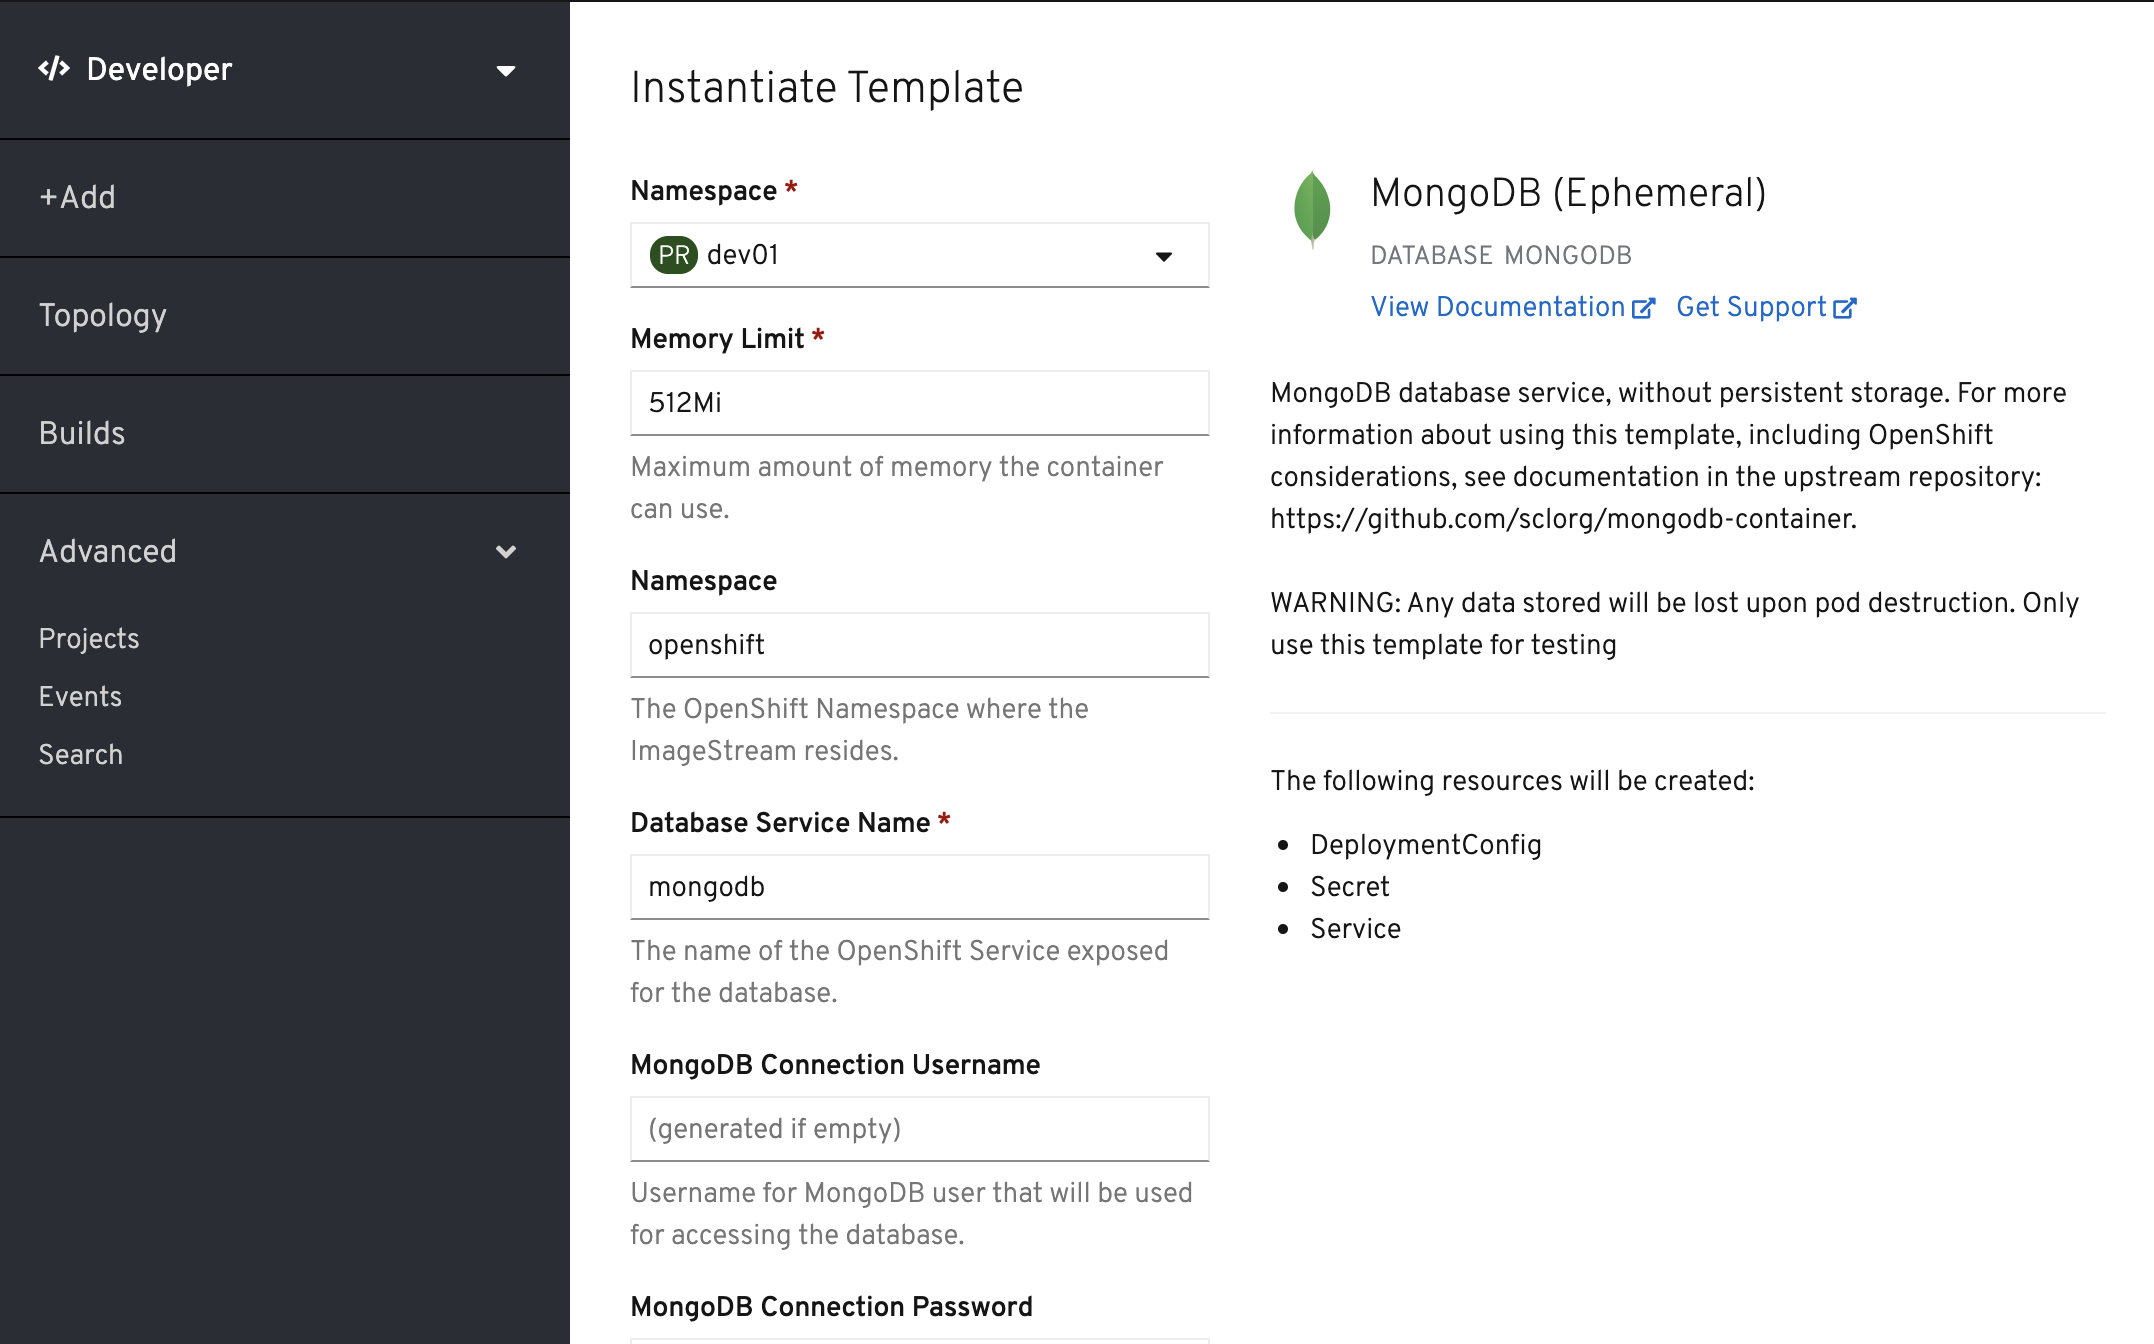
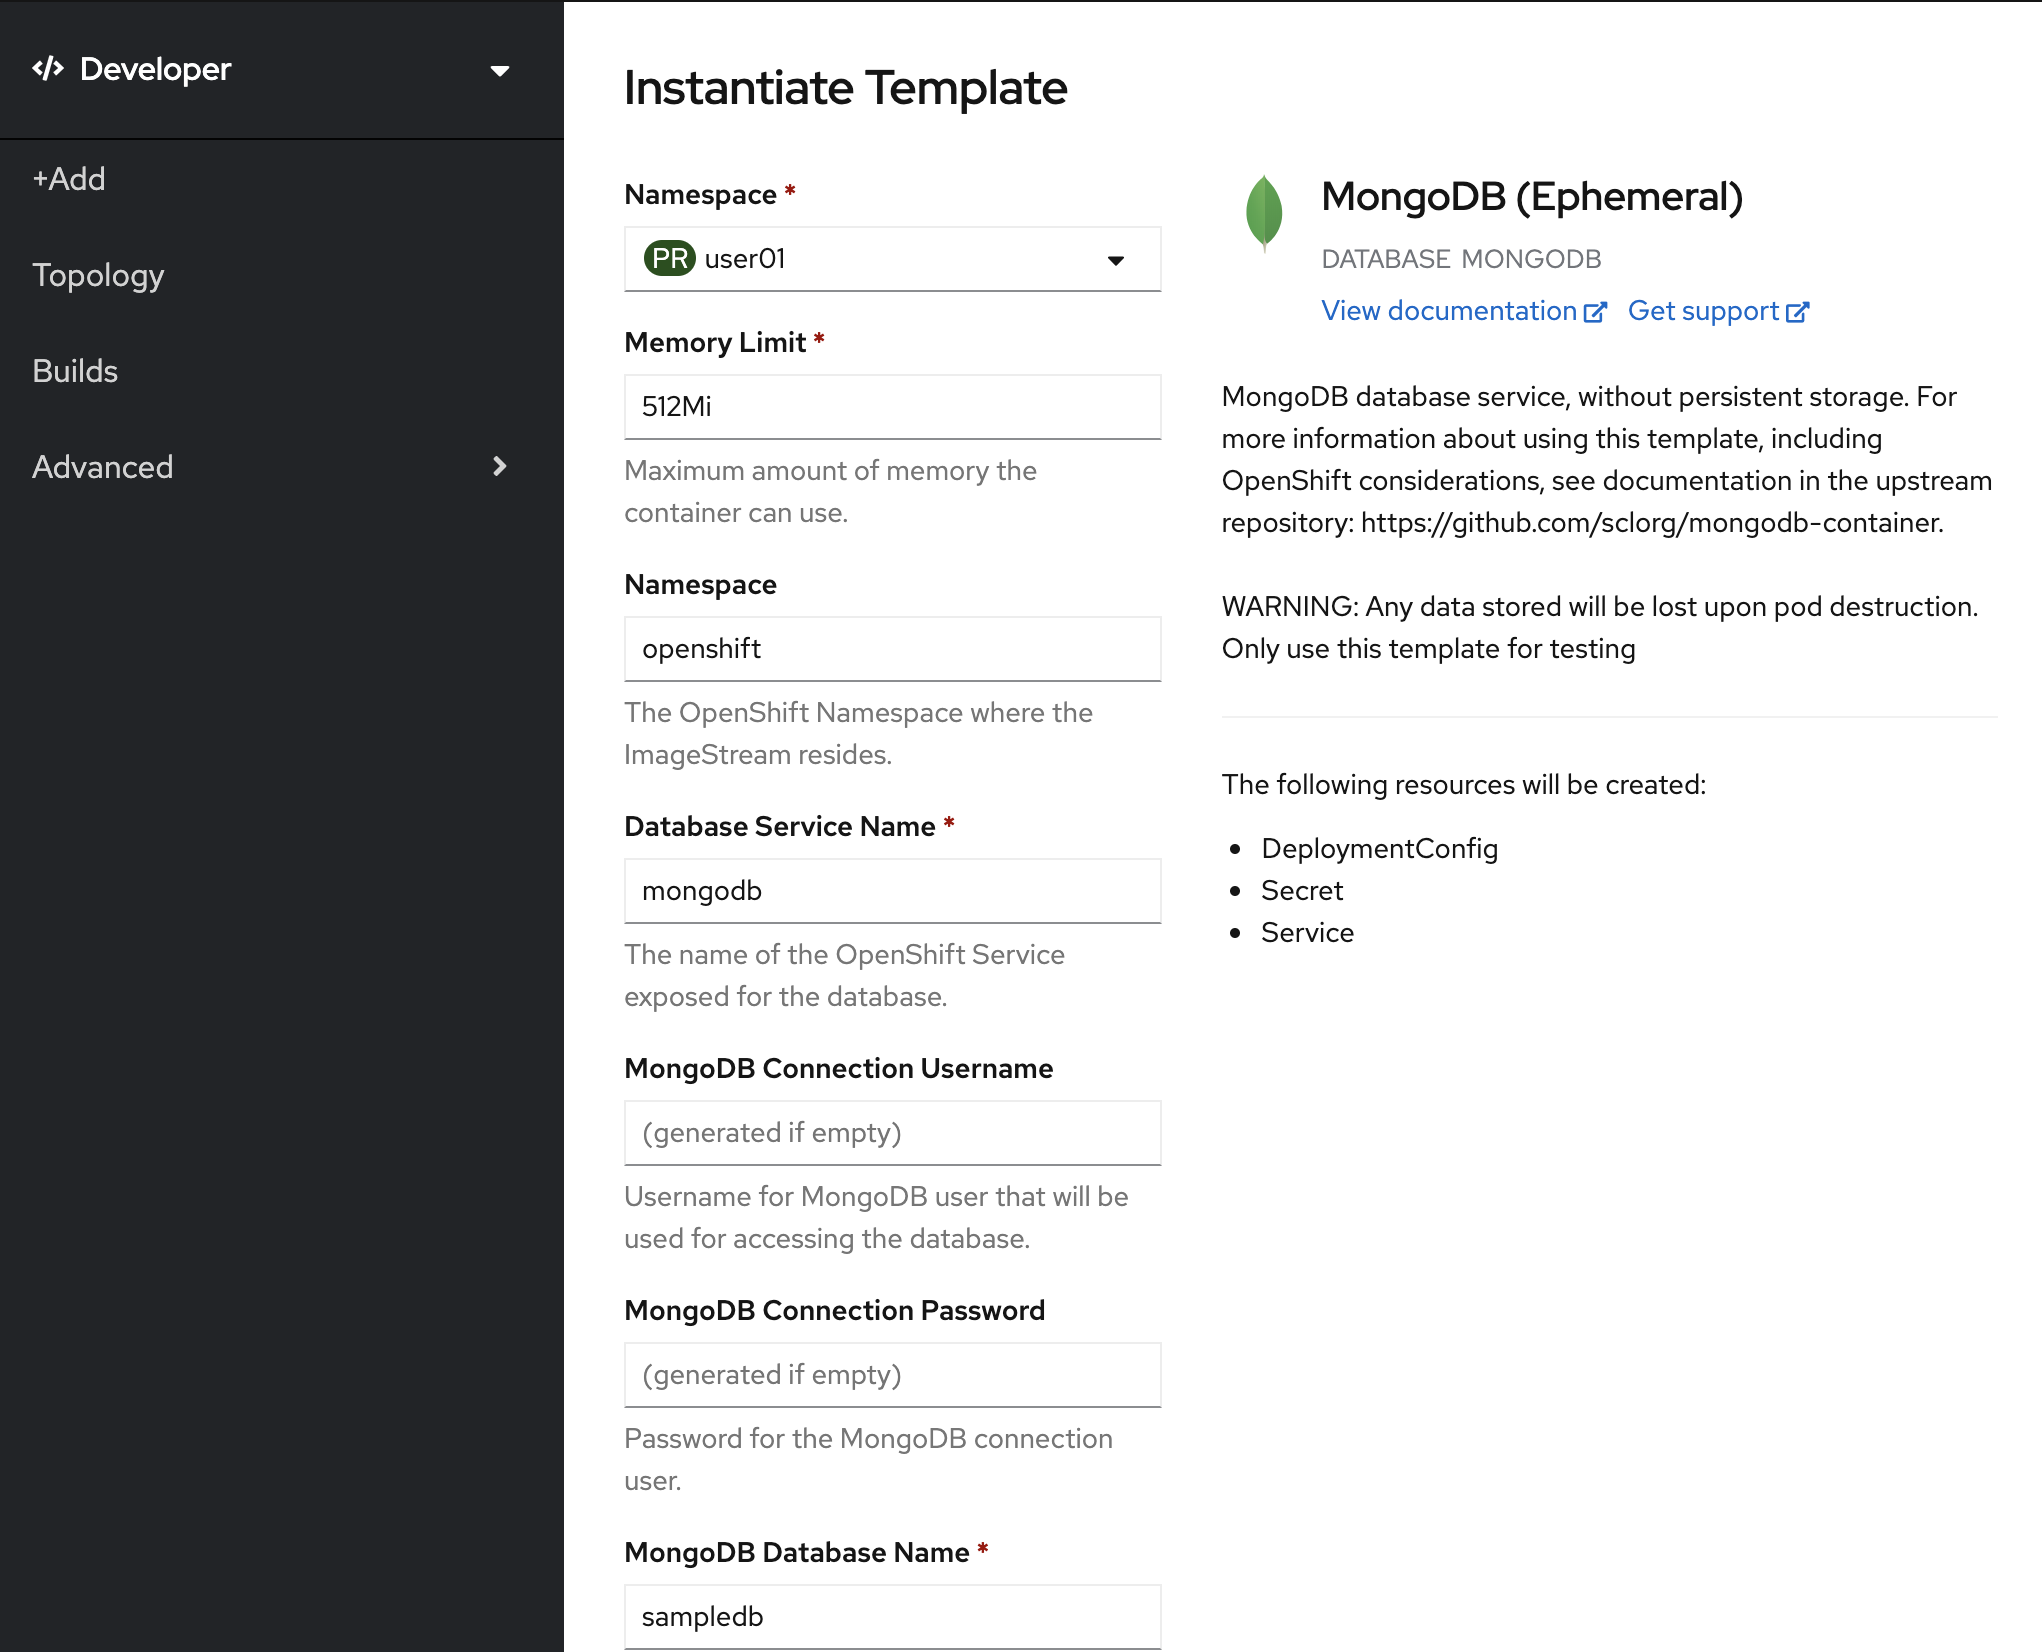
Update to OpenShift 4.3

diff --git a/Lab3/README.md b/Lab3/README.md
@@ -10,11 +10,11 @@ Node.jsアプリケーションを作成し、MongoDBと接続する上で必要
 1. プロジェクトを選択します
 
     プロジェクトは，**必ずご自身のログイン時のユーザー名 (例: "user01")** のものを選択してください。
-    Home > Project > user01　 (例)
+    Administrator > Home > Project > user01　 (例)
 
-    ![](images/create_application_using_existedImage_1.png)
+    ![](images/prepate_1.png)
 
-1. +Add > From Catalog > と選択し、「mongodb (ephemeral)」と検索し、MongoDB(Ephemeral)を選択してください。
+1. Developer > +Add > From Catalog > と選択し、「mongodb (ephemeral)」と検索し、MongoDB(Ephemeral)を選択してください。
 
     ![](images/mongo1.png)
 
@@ -34,7 +34,7 @@ Node.jsアプリケーションを作成し、MongoDBと接続する上で必要
 
 # Node.jsアプリケーションを構築
 
-1. 次にNode.jsのアプリケーションを構築します。+Add > From Catalog > と進み、「Node.js」と検索し、
+1. 次にNode.jsのアプリケーションを構築します。Developer > +Add > From Catalog > と進み、「Node.js」と検索し、
 
    Node.jsを選択してください。(Node.js + MongoDBや、Node.js + MongoDB(Ephemeral)ではありません)
 
@@ -52,7 +52,7 @@ Node.jsアプリケーションを作成し、MongoDBと接続する上で必要
 
 # Node.jsとMongoDBを繋げる
 
-1. 最後に作成したNode.jsアプリケーションからMongoDBに接続する設定を行います。Topologyを開いてNodeを選択し、右上の「Actions」を選択し、「Edit Deployment Config」を選択してください。
+1. 最後に作成したNode.jsアプリケーションからMongoDBに接続する設定を行います。Topologyを開いてNodeを選択し、右上の「Actions」を選択し、「Edit Deployment」を選択してください。
 
    ![](images/node_mongo1.png)
 

diff --git a/Lab6/README.md b/Lab6/README.md
@@ -23,7 +23,7 @@ git clone https://github.com/16yuki0702/sample-quarkus-0.20.0.git
     oc new-app jenkins-ephemeral
     ```
 
-3. Jenkinsのメモリ上限を増やします。openshiftコンソールから Advanced > Projects > user01-app > Workloadsタブ > jenkinsの行 を選び、右上の「Actions」から「Edit Deployment Config」を選択してください。
+3. Jenkinsのメモリ上限を増やします。openshiftコンソールから Developer > Advanced > Project Details > Workloadsタブ > jenkinsの行 を選び、右上の「Actions」から「Edit Deployment Config」を選択してください。
 
     ![](images/jenkins_edit_deploymentconfig_1.png)
 
@@ -34,7 +34,10 @@ git clone https://github.com/16yuki0702/sample-quarkus-0.20.0.git
 5. Lab5で既にビルドを作成していた場合、作成したBuild Config等を削除して作り直していきます。下記でApplicatoinの設定を全て削除します。(Hands-on中にproject内にゴミが溜まってうまく動かなくなった場合も、下記でApplicatoin設定を削除してみてください)
 
     ```
-    ./jenkins/delete-quarkus-app.sh
+    $ cd /projects/sample-quarkus-0.20.0 (CodeReadyの場合
+    $ cd /home/userxx/sample-quarkus-0.20.0 (踏み台の場合)
+    
+    $ ./jenkins/delete-quarkus-app.sh
     ```
 
 6. 下記コマンドを入力し、Build Config を作成します。
